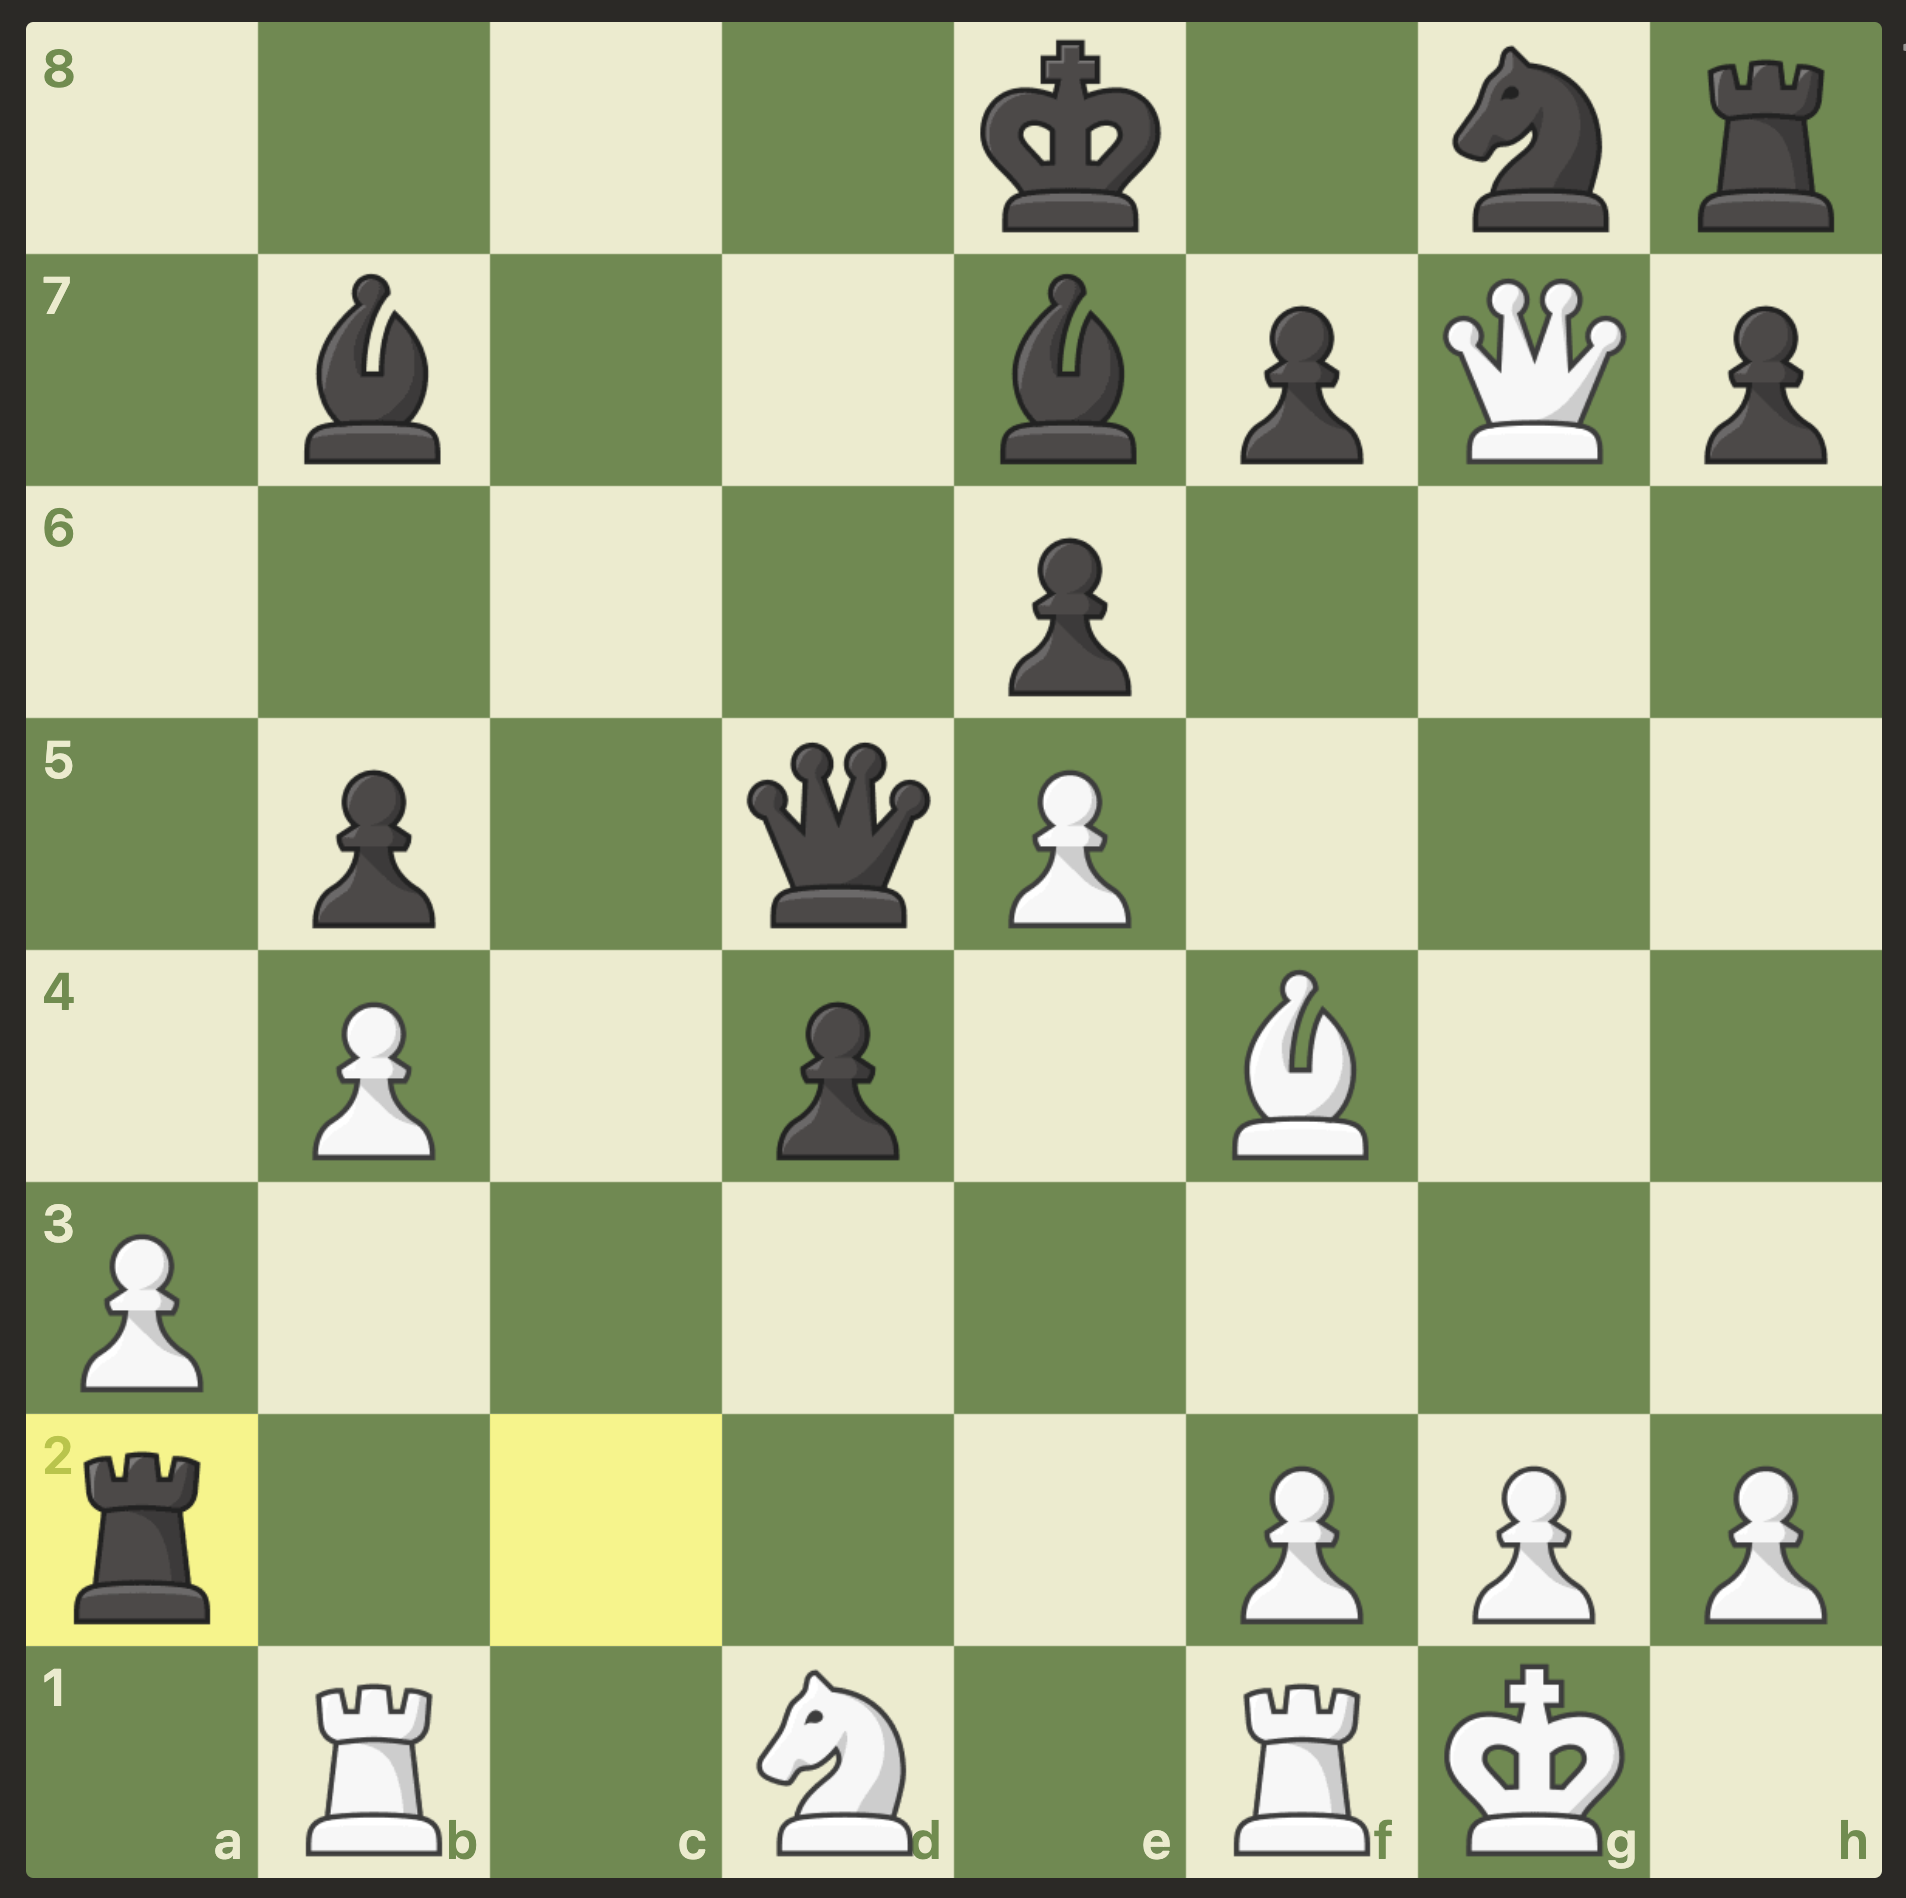
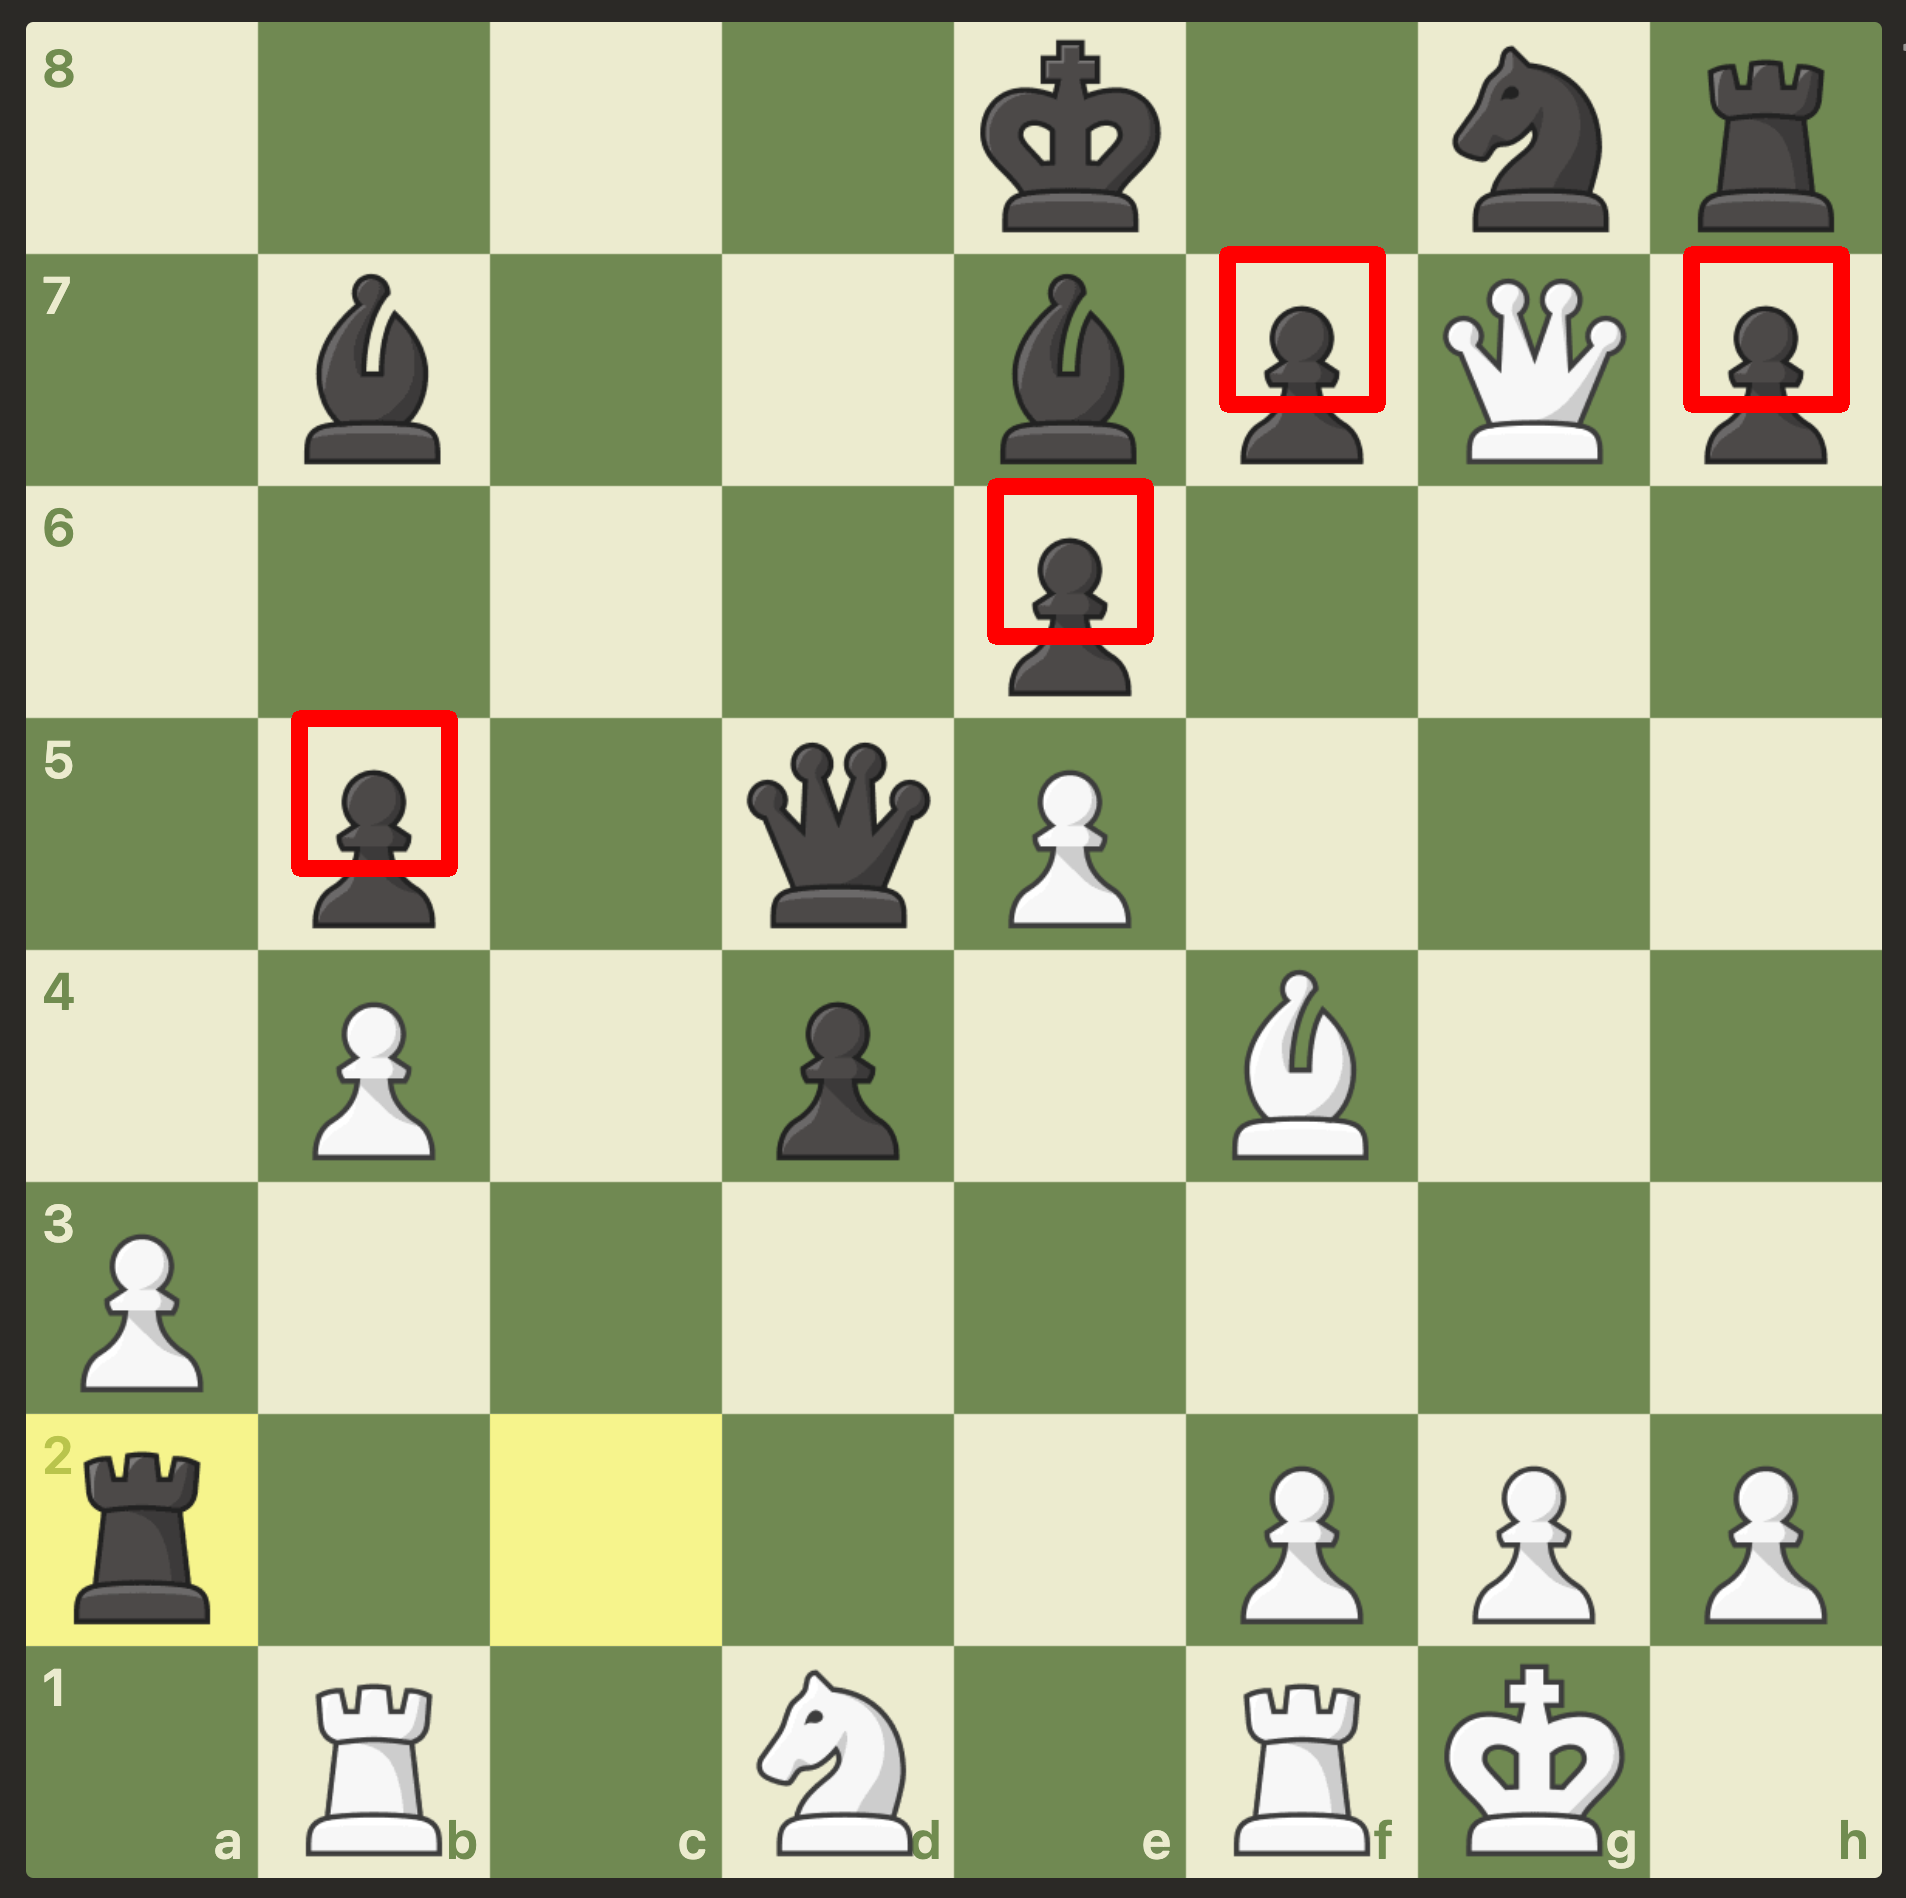
Apply different thresholding techniques for black and white pieces

diff --git a/board_destroyer.py b/board_destroyer.py
@@ -3,37 +3,42 @@ import numpy as np
 from imutils.object_detection import non_max_suppression
 
 # TODO: save images in memory after loading them to save computing time
-img_board = cv2.imread("assets/cb2.png")
+img_board = cv2.imread("assets/cb.png")
 img_board_gray = cv2.cvtColor(img_board, cv2.COLOR_BGR2GRAY)
 
 piece_names = {
-    # "white_king": "K",
-    # "white_queen": "Q",
-    # "white_rook": "R",
-    # "white_bishop": "B",
-    # "white_knight": "N",
-    # "white_pawn": "P",
+    "white_king": "K",
+    "white_queen": "Q",
+    "white_rook": "R",
+    "white_bishop": "B",
+    "white_knight": "N",
+    "white_pawn": "P",
     "black_king": "k",
-    # "black_queen": "q",
-    # "black_rook": "r",
-    # "black_bishop": "b",
+    "black_queen": "q",
+    "black_rook": "r",
+    "black_bishop": "b",
     "black_knight": "n",
-    # "black_pawn": "p",
+    "black_pawn": "p",
 }
 
-
 def find_piece(board, piece):
-    img_piece = cv2.imread(f"assets/{piece}.png", cv2.IMREAD_UNCHANGED)
+    square_size = int((board.shape[0] / 8 + board.shape[1] / 8) / 2 * 0.97)
+
+    img_piece = cv2.resize(
+        cv2.imread(f"assets/{piece}.png", cv2.IMREAD_UNCHANGED),
+        (square_size, square_size),
+    )
     img_piece_gray = cv2.cvtColor(img_piece, cv2.COLOR_BGR2GRAY)
 
     h, w = img_piece_gray.shape
-
     img_piece_inverted = cv2.bitwise_not(img_piece_gray)
-    _, mask = cv2.threshold(img_piece_inverted, 150, 255, cv2.THRESH_BINARY)
+    if piece.startswith("black"):
+        mask = cv2.threshold(img_piece_inverted, 100, 255, cv2.THRESH_BINARY)[1]
+    else:
+        mask = img_piece[:, :, 3]
 
     matches = cv2.matchTemplate(board, img_piece_gray, cv2.TM_SQDIFF_NORMED, mask=mask)
     locs = np.where(matches <= 0.1)
-
     rects = [(x, y, x + w, y + h) for x, y in zip(*locs[::-1])]
 
     return non_max_suppression(np.array(rects))

diff --git a/test.py b/test.py
@@ -27,7 +27,7 @@ while min_val < 0.1:
     # Draw a rectangle around the matching location
     top_left = min_loc
     bottom_right = (top_left[0] + img_piece.shape[1], top_left[1] + img_piece.shape[0])
-    cv2.rectangle(img_board, top_left, bottom_right, (0, 0, 255), 2)
+    cv2.rectangle(img_board, top_left, bottom_right, (0, 0, 255), 15)
 
     #overwrite the portion of the result that has the match:
     h1 = top_left[1]-h//2

diff --git a/tempCodeRunnerFile.py b/tempCodeRunnerFile.py
@@ -1,2 +1,1 @@
-mg_piece)
-    cv2.waitKey()
+square_size
